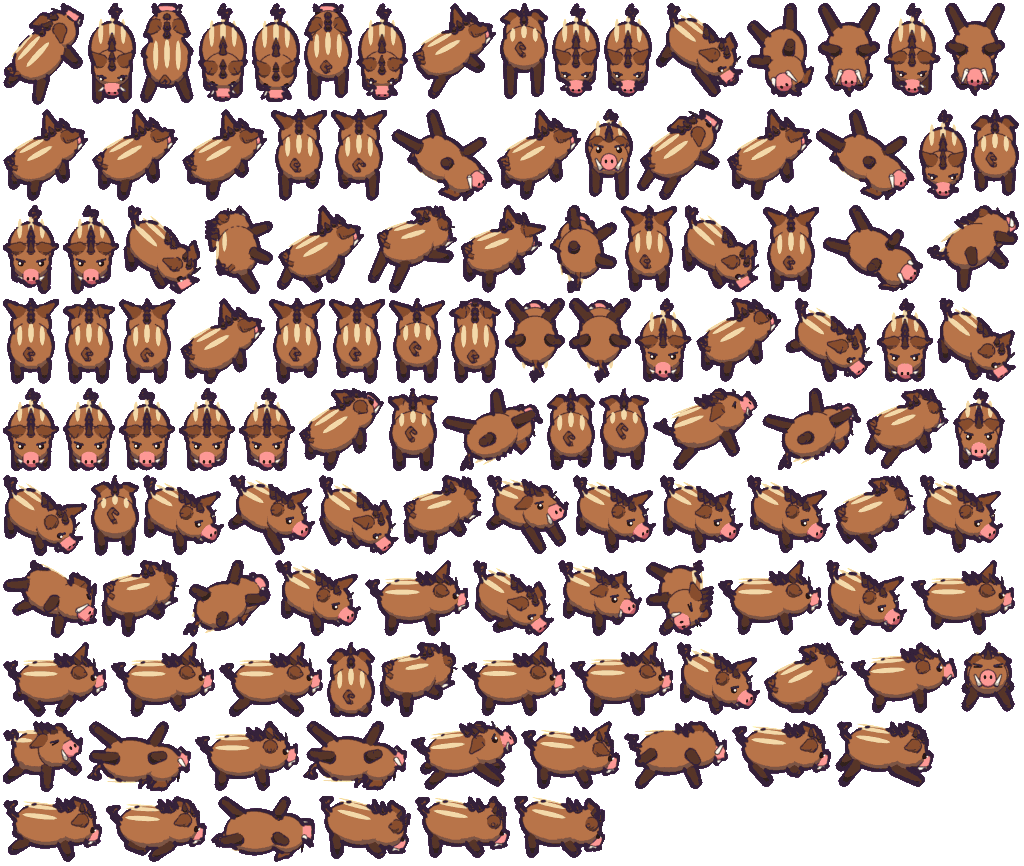
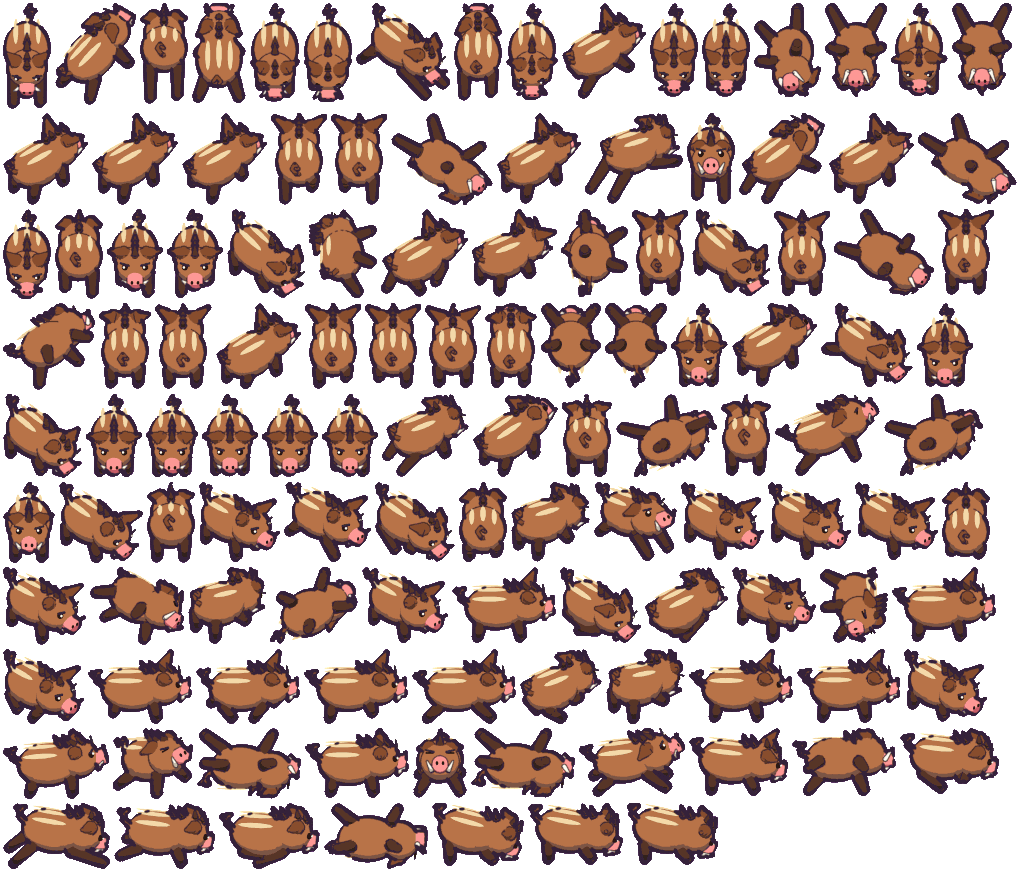
The chart shows both islands, the piglet gallops at its speed, the toad hops
Leonard, AD's third follow-up drop (studio commit 196717f), copied whole:
- Crab Cay's layout names the kinds in its zones itself, so the tool's
  own table of who lives where is gone.
- The bristle piglet's charge is redrawn for the speed it runs at.
- The sea chart has Crab Cay and Mire Cay as named places with their own
  pins, and a dotted route between them. The panel reads the pin and the
  foot of each painting from his data and draws the route.

The hop toad now travels in hops (Leonard, AD: it must cover its ground
while it is in the air). It stands while its feet are planted and moves
that much faster in the air, so its pace over a whole hop is its speed.
The screen draws its hop on the rules' own clock. A test holds this.

Crab Cay's memory budget is 60 MB (mine); he counted 58.5.

diff --git a/Game Developer/client/src/view/panels.ts b/Game Developer/client/src/view/panels.ts
@@ -44,7 +44,8 @@ export type PanelKind = 'menu' | 'bag' | 'hero' | 'chart' | 'shop' | 'skills';
 
 /** The Art Director's chart: where each of his places is on it, the dots of the way between, where the title and the button sit. In design units. */
 interface ChartArt {
-  places: Record<string, { x: number; y: number }>;
+  /** Each place's point, its pin's name, and how far below the point its painting ends. */
+  places: Record<string, { x: number; y: number; pin?: string; foot?: number }>;
   route: number[][];
   title: { x: number; y: number };
   sail: { x: number; y: number };
@@ -742,15 +743,15 @@ export class Panels {
     const atDock = this.actions.atDock();
     // A place the Art Director has not put on his chart yet stands on one of his unnamed spots.
     const spare = [...(chart.unknown ?? [])];
-    const spots: Record<string, { x: number; y: number }> = {};
+    const spots: Record<string, { x: number; y: number; pin?: string; foot?: number }> = {};
     for (const id of Object.keys(PLACES)) {
       const drawn = chart.places[CHART_ART[id] ?? ''];
       const spot = drawn ?? spare.shift();
       if (spot) spots[id] = spot;
     }
     const ids = Object.keys(spots);
-    // His dotted way was drawn from the old harbour to the first island: with the town on the island it leads nowhere.
-    for (const [x = 0, y = 0] of ids.length > 9 ? chart.route.slice(1, -1) : []) {
+    // His dotted way from Crab Cay's dock to Mire Cay's jetty.
+    for (const [x = 0, y = 0] of chart.route.slice(1, -1)) {
       const dot = picture(s, 'pins', 'mark/route');
       if (dot) this.keep(dot.setPosition(x, y).setDepth(DEPTH.panel + 2));
     }
@@ -762,10 +763,10 @@ export class Panels {
         const ring = picture(s, 'pins', 'mark/here');
         if (ring) this.keep(ring.setPosition(at.x, at.y).setDepth(DEPTH.panel + 2));
       }
-      const pin = picture(s, 'pins', 'pin/island');
+      const pin = picture(s, 'pins', at.pin ?? 'pin/island') ?? picture(s, 'pins', 'pin/island');
       if (pin) this.keep(pin.setPosition(at.x, at.y - 8).setDepth(DEPTH.panel + 3));
-      // His islands are painted taller than his harbour: the name goes under the painting, not under the point.
-      words(at.x, at.y + 76, `${place.name}  Lv ${place.levels.replace(' to ', '-')}`, 13);
+      // The name goes under the island's painting, a little below its foot.
+      words(at.x, at.y + (at.foot ?? 66) + 10, `${place.name}  Lv ${place.levels.replace(' to ', '-')}`, 13);
       if (here) words(at.x, at.y - 68, 'You are here', 11, '#ffe9a8');
       else this.zone(at.x, at.y - 6, 130, 150, () => this.sail(id));
     }

diff --git a/Game Developer/rules/src/world.ts b/Game Developer/rules/src/world.ts
@@ -3,7 +3,7 @@
 // from the step's `now`. The state handed in is never changed; the step works on a copy and hands that back.
 
 import { MAX_DT, clampToPlace, clone, heroReach, monsterById, monsterReach, nearestMonster, reject, roll, setTarget } from './core.ts';
-import { N, START_PLACE, PLACES, heroArmour, heroBonusDamage, heroMaxHp, kindOf, placeOf } from './data.ts';
+import { N, START_PLACE, PLACES, heroArmour, heroBonusDamage, heroMaxHp, hopOf, kindOf, placeOf } from './data.ts';
 import { angleTo, dist, stepToward } from './geometry.ts';
 import { clear, inHome, onLand, walk } from './ground.ts';
 import { hurtMonster, stepDrops } from './loot.ts';
@@ -234,6 +234,8 @@ function stepMonsters(s: GameState, dt: number, rng: Rng, ev: GameEvent[]): void
     const heroUp = h.downFor <= 0 && (!safe || m.hp < k.maxHp);
     const fromX = m.x;
     const fromY = m.y;
+    // A hopper travels only while it is in the air, that much faster.
+    const pace = hopOf(k, m.id, s.time).pace;
     switch (m.mode) {
       case 'wander': {
         if (heroUp && d <= k.aggroRange) {
@@ -241,7 +243,7 @@ function stepMonsters(s: GameState, dt: number, rng: Rng, ev: GameEvent[]): void
           m.goal = null;
         } else if (m.goal) {
           m.facing = angleTo(m, m.goal);
-          if (stepToward(m, m.goal, k.wanderSpeed * dt)) {
+          if (stepToward(m, m.goal, k.wanderSpeed * pace * dt)) {
             m.goal = null;
             m.timer = pause(m, rng);
           }
@@ -266,7 +268,7 @@ function stepMonsters(s: GameState, dt: number, rng: Rng, ev: GameEvent[]): void
           ev.push({ type: 'monsterWindup', monster: m.id, seconds: k.windupSeconds });
         } else {
           m.facing = angleTo(m, h);
-          stepToward(m, h, Math.min(k.chaseSpeed * dt, d - (monsterReach(m) - 2)));
+          stepToward(m, h, Math.min(k.chaseSpeed * pace * dt, d - (monsterReach(m) - 2)));
         }
         break;
       }
@@ -333,7 +335,7 @@ function stepMonsters(s: GameState, dt: number, rng: Rng, ev: GameEvent[]): void
         m.hp = Math.min(k.maxHp, m.hp + k.maxHp * dt);
         const home = { x: m.homeX, y: m.homeY };
         m.facing = angleTo(m, home);
-        if (stepToward(m, home, k.chaseSpeed * dt)) {
+        if (stepToward(m, home, k.chaseSpeed * pace * dt)) {
           m.hp = k.maxHp;
           m.mode = 'wander';
           m.timer = pause(m, rng);

diff --git a/Game Developer/rules/test/isles.test.ts b/Game Developer/rules/test/isles.test.ts
@@ -120,6 +120,33 @@ describe('the swamp, Mire Cay', () => {
   });
 });
 
+describe('the hop toad', () => {
+  it('travels in hops: it stands while its feet are planted and covers its ground in the air, at its own pace over a whole hop', () => {
+    const k = MONSTERS['hop-toad']!;
+    const sim = Sim.empty();
+    sim.hero({ hp: 9999 });
+    // Near enough to stay on the test field and inside its leash, too far to reach him in four hops.
+    const m = sim.monster(400, 0, { kind: 'hop-toad', mode: 'chase' });
+    let still = 0;
+    let moving = 0;
+    let last = sim.find(m.id)!.x;
+    const from = last;
+    const steps = Math.round((k.hopSeconds * 4) / (1 / 60));
+    for (let i = 0; i < steps; i++) {
+      sim.step();
+      const x = sim.find(m.id)!.x;
+      if (Math.abs(x - last) < 0.001) still += 1;
+      else moving += 1;
+      last = x;
+    }
+    expect(still).toBeGreaterThan(steps * 0.3);
+    expect(moving).toBeGreaterThan(steps * 0.5);
+    // Four whole hops: as far as its speed would have taken it walking.
+    expect(from - last).toBeCloseTo(k.chaseSpeed * k.hopSeconds * 4, -1);
+    say(`a hop toad stands ${Math.round((1 - (k.hopTo - k.hopFrom) / k.hopSeconds) * 100)}% of a hop and covers ${(k.chaseSpeed * k.hopSeconds).toFixed(0)} units in each`);
+  });
+});
+
 describe('levels', () => {
   it('go to 8: the swamp is worth it, and the stall knows what to sell at every level', () => {
     expect(N.levels.max).toBe(8);

diff --git a/Game Developer/client/src/view/world-view.ts b/Game Developer/client/src/view/world-view.ts
@@ -4,7 +4,7 @@
 // he wears); only one-shots come from the events (a number, a puff, the sword's arc). Nothing here decides anything.
 
 import Phaser from 'phaser';
-import { MONSTERS, N, RARITIES, chestFull, heroMaxHp, inHome, kindOf, makeRng, placeOf, type Drop, type GameEvent, type GameState, type Monster, type Place, type Vec } from '../../../rules/src/index.ts';
+import { MONSTERS, N, RARITIES, chestFull, heroMaxHp, hopOf, inHome, kindOf, makeRng, placeOf, type Drop, type GameEvent, type GameState, type Monster, type Place, type Vec } from '../../../rules/src/index.ts';
 import { ART } from '../art.ts';
 import { COLORS, DEPTH, FONT, RES, hex, WEIGHT } from '../layout.ts';
 import type { Ground } from '../scenes/BootScene.ts';
@@ -334,7 +334,9 @@ export class WorldView {
         else if (!(f.playing === 'attack1' && !f.done)) f.play(walking ? 'move' : 'stand');
         v.mode = m.mode;
         f.face(m.facing);
-        f.advance(delta);
+        // A hopper's hop is drawn on the rules' own clock, so it is in the air exactly while it travels.
+        if (k.hopSeconds > 0 && f.playing === 'move') f.seek(hopOf(k, m.id, state.time).at * 1000);
+        else f.advance(delta);
         f.place(v.x, v.y, DEPTH.bodies + v.y, (1 + 0.1 * v.punch) * (1 - 0.5 * v.pop));
         f.flash(v.punch > 0.45);
         v.shadow.setPosition(v.x, v.y + 1);

diff --git a/Game Developer/rules/src/data.ts b/Game Developer/rules/src/data.ts
@@ -38,6 +38,13 @@ export interface MonsterKind {
    */
   rushSpeed: number;
   rushLength: number;
+  /**
+   * It moves in hops: one hop is this long, and it travels only between `hopFrom` and `hopTo` of it (in the air),
+   * that much faster, so its pace over a whole hop is its speed. 0: it walks.
+   */
+  hopSeconds: number;
+  hopFrom: number;
+  hopTo: number;
   damageMin: number;
   damageMax: number;
   respawnSeconds: number;
@@ -150,6 +157,17 @@ export function kindOf(m: { kind: string }): MonsterKind {
   const kind = MONSTERS[m.kind];
   if (!kind) throw new Error(`no such monster kind: ${m.kind}`);
   return kind;
+}
+
+/**
+ * How far into its hop a hopping monster is, in seconds, at this moment of the world; and how fast it travels just
+ * now, as a share of its speed (0 while its feet are planted). The screen reads the same clock for its picture.
+ */
+export function hopOf(kind: MonsterKind, id: number, time: number): { at: number; pace: number } {
+  if (kind.hopSeconds <= 0) return { at: 0, pace: 1 };
+  const at = (time + id * 0.137) % kind.hopSeconds;
+  const air = at >= kind.hopFrom && at < kind.hopTo;
+  return { at, pace: air ? kind.hopSeconds / (kind.hopTo - kind.hopFrom) : 0 };
 }
 
 export function placeOf(s: { place: string }): Place {

diff --git a/Game Developer/client/src/view/figures.ts b/Game Developer/client/src/view/figures.ts
@@ -166,6 +166,24 @@ export class Figure {
     this.show();
   }
 
+  /** Stand at this moment of the action now playing (ms from its start), whatever its own clock says: a hop in step with the rules. */
+  seek(ms: number): void {
+    const a = this.data.actions[this.action];
+    const frames = this.frames();
+    if (!a || frames.length === 0) return;
+    let left = ms;
+    let index = 0;
+    while (index < frames.length - 1 && left >= (frames[index]?.delay || a.delay)) {
+      left -= frames[index]?.delay || a.delay;
+      index += 1;
+    }
+    this.clock = 0;
+    if (index !== this.index) {
+      this.index = index;
+      this.show();
+    }
+  }
+
   /** Time passes: the action moves on, loops, or stops on its last frame. */
   advance(ms: number): void {
     const a = this.data.actions[this.action];

diff --git a/Game Developer/client/src/art.ts b/Game Developer/client/src/art.ts
@@ -33,7 +33,7 @@ export const ART = {
 };
 
 /** The game's name for a place, and the Art Director's name for it on his chart. */
-export const CHART_ART: Record<string, string> = { 'crab-cay': 'island-1' };
+export const CHART_ART: Record<string, string> = { 'crab-cay': 'crab-cay', 'mire-cay': 'mire-cay' };
 
 /** The game's name for a piece of gear, and the Art Director's name for its picture. */
 export const GEAR_ART: Record<string, string> = {

diff --git a/Game Developer/rules/src/index.ts b/Game Developer/rules/src/index.ts
@@ -16,6 +16,7 @@ export {
   BASES,
   SHOP,
   kindOf,
+  hopOf,
   placeOf,
   baseOf,
   itemStats,

diff --git a/Game Developer/client/public/art/chart/NOTES.md b/Game Developer/client/public/art/chart/NOTES.md
@@ -1,27 +1,42 @@
 # chart  (Leonard, AD, 2026-11-20)
 
-**What it is:** the sea chart: the world as a sailor's chart, with the harbour and the first island on it and room for
-many more (Robin, 2026-11-20: "a sea chart of islands"; he travels by tapping the chart).
+**What it is:** the sea chart: the world as a sailor's chart, with Crab Cay and Mire Cay on it and room for more
+(Robin, 2026-11-20: "a sea chart of islands"; he travels by tapping the chart).
 
-**What changed and why:** new. A world map is big work and would get three concepts for Robin to pick from. He asked
-not to be asked until chapter 1 is done, so this is one chart, **mine, made to be judged and changed**.
+**What changed and why (the second drop, 2026-11-20):** asked by Victor, GD once the second island was in the game.
+- **The old harbour is no place any more.** The town stands on Crab Cay (Robin, 2026-11-20: "Make the starter island a
+  pirate town"), so Crab Cay now has three small huts and a dock at its south end, and the harbour's island is one of
+  the unknown ones with a question mark.
+- **Mire Cay is painted in** where the first unknown island was: mud, moss, pools, grey stones in the north, a jetty
+  in the south (Robin, 2026-11-20: "a second island to go to... A swamp maybe").
+- **A way between the two** as dots, from Crab Cay's dock round its west side to Mire Cay's jetty.
+- **A pin for the swamp**, `pin/swamp`: three cattails on green.
+- One unknown island stood under the Sail button: it is moved up and left.
+Every other island kept its shape.
+
+The whole chart is still **mine, made to be judged and changed**: a world map is big work and would get three
+concepts; Robin asked not to be asked until chapter 1 was done.
 
 **The numbers:**
-- `chart.png`: the whole screen, 412 by 915 design units at two pixels a unit (824 by 1830, 6 MB decoded). Cream paper,
-  compass lines from two roses, the two known places painted in, six faint islands with a question mark where more
-  will come, a ship, two sea serpents, a border like the scale round an old chart. **No words are painted in.**
-- `pins.png` and `pins.json`: `pin/harbour`, `pin/island`, `pin/boss`, `pin/locked` (40 by 52, the point is the
-  origin), `mark/here` (a ring round the place he is at), `mark/route` (a dot of the dotted line between two places).
-- `chart-places.json`: `places` (`harbour` at 118, 716; `island-1` at 262, 500, in design units on the chart),
-  `unknown` (where the six unknown islands are), `route` (ten dots from the harbour to the island), `title` and `sail`
-  (where a title plate and the "Sail" button sit well).
+- `chart.png`: the whole screen, 412 by 915 design units at two pixels a unit (824 by 1830, 6 MB decoded). **No words
+  are painted in.**
+- `pins.png` and `pins.json` (256 by 256): `pin/island`, `pin/swamp`, `pin/harbour`, `pin/boss`, `pin/locked` (40 by
+  52, the point is the origin), `mark/here` (a ring round the place he is at), `mark/route` (a dot of the way).
+- `chart-places.json`:
+  - `places`: **`crab-cay`** at 262, 500 and **`mire-cay`** at 330, 286, each with `name`, `pin` (which pin it wears)
+    and `foot` (how far below its point its painting ends: write the name about 10 under that). `island-1` is still
+    there as the old name of `crab-cay`, the same place, so nothing breaks before the table is changed; it has a `note`.
+  - `unknown`: six spots, the old harbour's island the last of them. **Mire Cay's spot is no longer in this list.**
+  - `route`: thirteen points from Crab Cay to Mire Cay; draw `mark/route` on all but the first and the last.
+  - `title` and `sail`: where the title plate and the "Sail" button sit well.
 
-**How the game uses it:** copy the folder. Draw `chart.png` to fill the screen. Put a pin on each place a little above
-its point, the ring on the place he is at, the route's dots between the two, and write each name under its place in
-white with the dark line (13 bold). The "Sail" button is `button/context` from `out\glass\`. `look.jpg` shows all that.
+**How the game uses it:** copy the folder. In the table that names my places, `crab-cay` is `crab-cay` and `mire-cay`
+is `mire-cay` now; a place that is not on the chart yet still takes the next `unknown` spot. Put each place's own
+`pin` a little above its point, the ring on the place he is at, the dots of the way, and the name under the painting.
+`look.jpg` shows all that, made by `tools\chart-look.js` from these files.
 
-**Open:** the whole design. A later island needs its own small shape painted over a question mark; I repaint the
-chart then, or we move to a chart of pieces if there are many. The chart does not scroll.
+**Open:** the whole design. Each later island needs its own small shape painted over a question mark; I repaint the
+chart then. With many islands the chart would want to be pieces, or to scroll. `pin/harbour` has no place now.
 
 **Not tested:** not in the game.
 
@@ -29,3 +44,6 @@ chart then, or we move to a chart of pieces if there are many. The chart does no
 (public domain; nothing of them is copied in). Nothing from outside.
 
 **Where to see it:** `look.jpg`.
+
+**Making it again:** `node tools/chart.js`; `node tools/packset.js pins work/chart/render work/chart/out --only pin/,mark/`;
+copy `chart.png`, the pins and `chart-places.json` here; `python tools/shrink.py out/chart`; `node tools/chart-look.js`.

diff --git a/Game Developer/client/public/art/bristle-piglet/NOTES.md b/Game Developer/client/public/art/bristle-piglet/NOTES.md
@@ -4,20 +4,20 @@
 
 **Why.** Robin, 2026-11-20, in Victor, GD's chat: "I think the birds are weird starting mobs." Six candidates went to him for the gull's place (`concepts\grove-mob\`); he said, in my chat: "Build all of them, and have the GD make a second island to go to with some of the new mobs." The design is mine; the id is mine to propose.
 
-**The numbers:** 120 frames, five facings (`s`, `se`, `e`, `ne`, `n`). `bristle-piglet.png` 1024 by 866 (not a power of two tall), 129 KB, 3.4 MB decoded.
+**The numbers:** 120 frames, five facings (`s`, `se`, `e`, `ne`, `n`). `bristle-piglet.png` 1024 by 872 (not a power of two tall), 130 KB, 3.4 MB decoded.
 
 | Action | Frames a facing | Delays (ms) | Note |
 | --- | --- | --- | --- |
 | `stand` | 4 | 200, looped |  |
 | `move` | 4 | 90, looped | `stride` 20.16: how far one turn of it carries the feet |
-| `charge` | 4 | 70, looped | a gallop with the head down, for a rule that has it charge; an extra, not one of the five every monster has |
+| `charge` | 4 | 42, looped | a gallop with the head down, for a rule that has it charge; an extra, not one of the five every monster has |
 | `attack1` | 7 | 120, 120, 120, 160, 60, 90, 100 | the wind-up is frames 1 to 4, 520 ms: it tips forward with its head down and scrapes a front hoof twice, then butts upward; the blow lands on frame 5 (`blow` 4) |
 | `hit1` | 1 | 160 | thrown back with its front in the air |
 | `die1` | 4 | 90, 90, 140, 220 | rolls onto its back, legs up; the last two frames fade |
 
 **How the game uses it:** copy the folder. It is in the monsters' form of today: frames `bristle-piglet/<action>/<facing>/<nnnn>`; the `actions` block has each frame's origin, delay, box and head, and each action's `blow`, `stride` and `note`. No gear points. Lay its shadow at the origin, about 17 units wide each way. Its body is about 14 units from its middle to its edge. The wind-up changes its outline, so it reads without a colour; tint it as well if you like.
 
-**What suits its body (mine; the rule is Victor, GD's):** A charge: after the wind-up it runs straight through where he stood, skids, turns and comes again; a step aside dodges it. `charge` is the gallop for that run. With today's rule it works too: it darts in and butts.
+**What suits its body (mine; the rule is Victor, GD's):** A charge: after the wind-up it runs straight through where he stood, skids, turns and comes again; a step aside dodges it. `charge` is the gallop for that run: it is drawn for about 128 units a second (one turn of it, 280 ms, carries the feet 36 units). With today's rule it works too: it darts in and butts.
 
 **Where I would put it (mine; Victor, GD's and Robin's to say):** Crab Cay's grove, level 3.
 

diff --git a/Game Developer/docs/art-demands.md b/Game Developer/docs/art-demands.md
@@ -27,7 +27,7 @@ day, each island its own light.
 - **Weights**: an atlas under 300 KB; a place's ground kit under 400 KB; the first load under 3 MB with the sound,
   counted as it goes over the wire (Phaser itself is 1.5 MB on disk, 0.4 MB over the wire). Where it stands with
   all of wave 1 in (2026-11-20): 1.9 MB over the wire, 3.0 MB on the phone, no sound yet.
-- **Memory**: decoded pictures for one place under 48 MB (the starter island with its town and five monsters: 56, since 2026-11-20, mine: the harbour as a second place of 10 MB is gone, and a place's monsters will load with the place); lazy by place; nothing loaded for a place he is not in.
+- **Memory**: decoded pictures for one place under 48 MB (the starter island with its town and five monsters: 60, since 2026-11-20, mine; Leonard, AD counted 58.5 with the redrawn piglet: the harbour as a second place of 10 MB is gone, and a place's monsters will load with the place); lazy by place; nothing loaded for a place he is not in.
   **Not kept yet, and that is the game's doing, not the art's**: the game loads both places, the chart and all the
   figures when it starts, about 62 MB decoded together. Loading by place is on the list in `docs\autonomous.md`;
   it must be done before a third place comes.
@@ -47,7 +47,7 @@ picks, marks it "mine", and delivers without waiting; Robin judges it when he is
 - **Gear on the hero** is way 4 of his `docs\gear-on-the-hero.md`: one body sprite, and the cutlass, the buckler
   and the hat as small sprites placed on points the body's frame data carries (`hand`, `off`, `head`: x, y from the
   frame's origin, the turn in degrees, `front`).
-- **Memory**, decoded: the hero's body 16 MB at most; one place with all that is in it 48 MB at most (Crab Cay with its town and five monsters: 56).
+- **Memory**, decoded: the hero's body 16 MB at most; one place with all that is in it 48 MB at most (Crab Cay with its town and five monsters: 60).
 - **The install**: all of chapter 1's art under 6 MB on disk; what the harbour needs under 2 MB.
 - **The atlas form**: what his `tools\pack.js` writes: a Phaser JSON hash with frames named
   `<thing>/<action>/<facing>/<nnnn>`, and an `actions` block with each action's delay and loop and each frame's

diff --git a/Game Developer/client/public/art/crab-cay/NOTES.md b/Game Developer/client/public/art/crab-cay/NOTES.md
@@ -18,7 +18,10 @@ them. Theres also no contrast to the floor so it all kinda melts together." Of t
 - **The props' atlas is new:** 33 pieces, 2048 by 896. The houses and the well are gone from it; three huts, a
   lookout, a fish rack, a post and a rope of flags are in. Six pieces carry their own shadow.
 - `square` is gone (no cobbles). `home`, `people`, `arrive`, where he wakes and the stall have new places.
-- The rest of the island (the grove, the cove, the flats, the chest, the zones) is as it was.
+- The rest of the island (the grove, the cove, the flats, the chest) is as it was.
+- **`zones` names the monsters that live there now** (2026-11-20, as Victor, GD placed them): `sand-crab` twice at
+  level 1 on the beach, `wharf-rat` at 2 on the tide flats, `bristle-piglet` at 3 and `palm-monkey` at 4 in the grove,
+  `coconut-crab` at 5 in the cove. The boxes are the ones there were; `reef-gull` is gone.
 
 ## The numbers
 
@@ -29,7 +32,11 @@ them. Theres also no contrast to the floor so it all kinda melts together." Of t
 | `folk.png`, `folk.json` | the four people, unchanged | 1024 by 512 | 2 MB | 72 + 21 KB |
 | `place.json` | the layout | | | 29 KB |
 
-- **With everything on it:** the ground 11.8, the props 7, the people 2, the three monsters 16, his body 8, gear 2,
+- **With everything on it, since the five monsters (2026-11-20):** the ground 11.8, the props 7, the people 2, the
+  monsters 21.9 (crab 4, rat 2.2, piglet 3.4, monkey 4.3, coconut crab 8), his body 8, gear 2, the glass 3.5, loot
+  0.3, the chest's light 0.9 and the big chest 1.1: **58.5 MB decoded, 2.5 over the 56 Victor, GD set.** The big
+  chest and the glass's four new discs are what was not counted then. Before the five monsters it was:
+- the ground 11.8, the props 7, the people 2, the three monsters 16, his body 8, gear 2,
   the glass 3.1, loot 0.3: **50.2 MB decoded**, under the 52 you set. The hero's own pictures for his window
   (`out\hero-sheet`) are 1.6 MB on top of that when they are loaded.
 - The atlases are not a power of two tall any more (`--tight`): the ground never was, and it saves 2.6 MB over three
